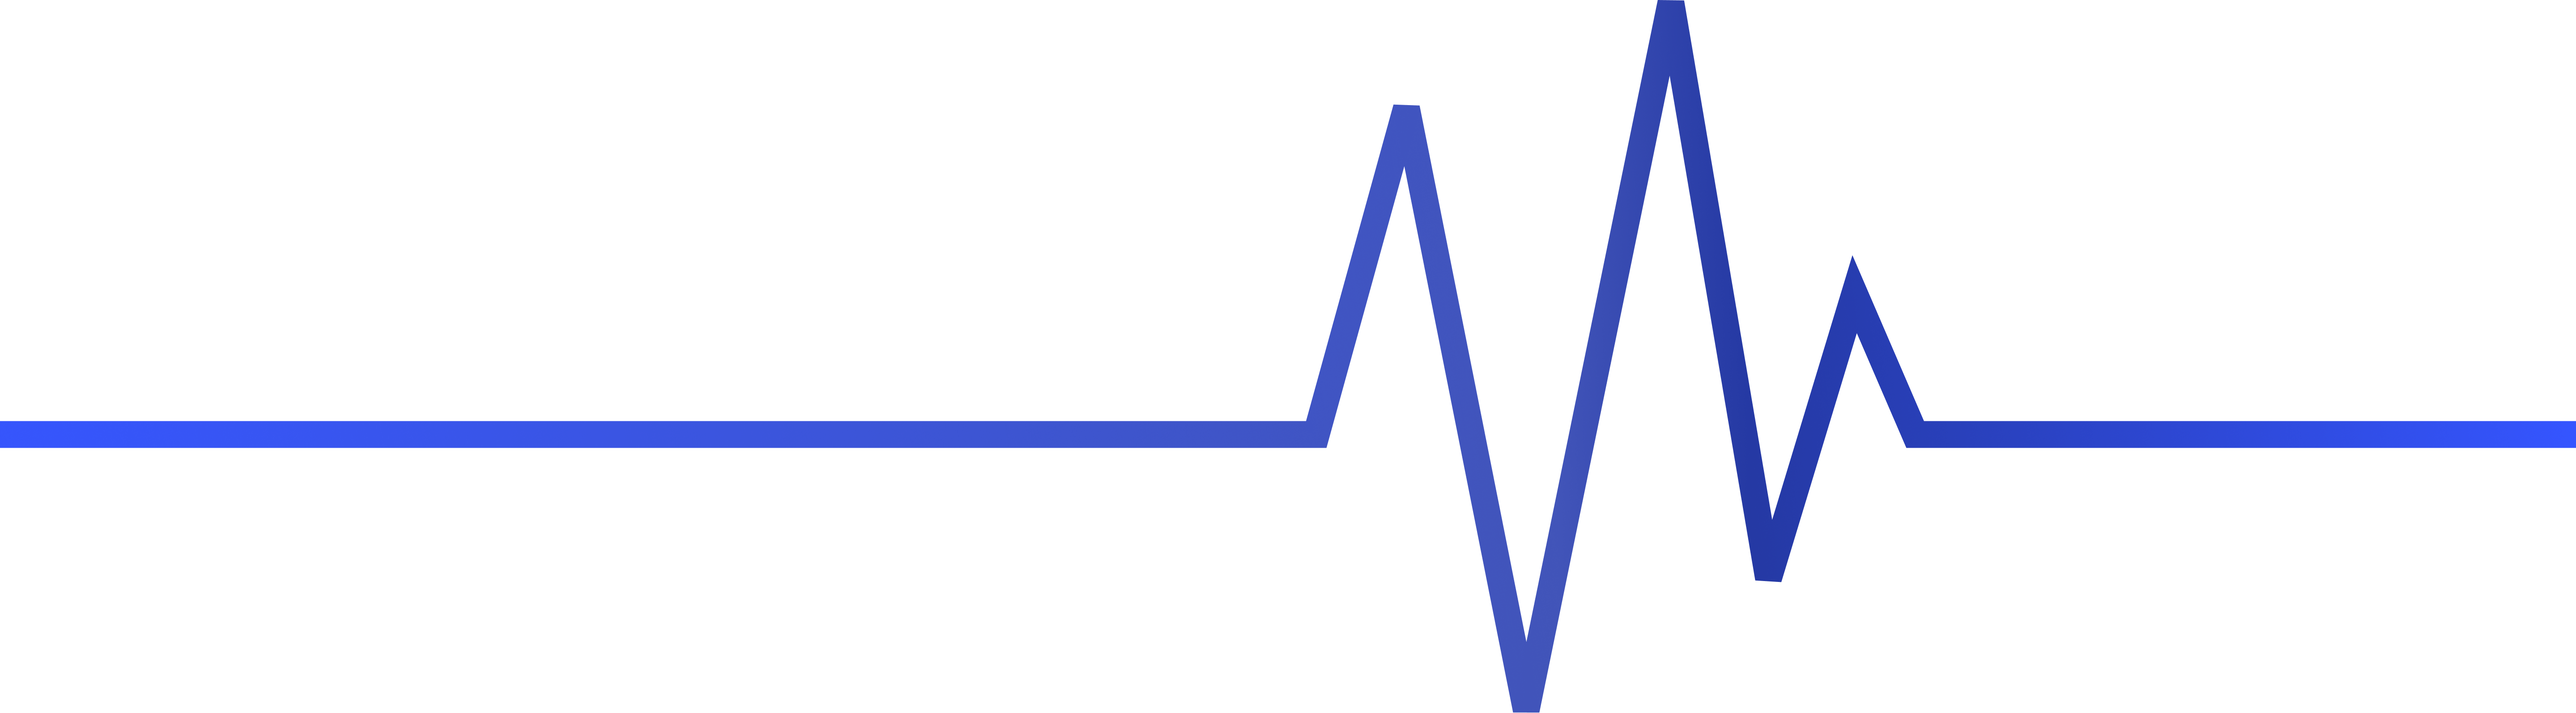
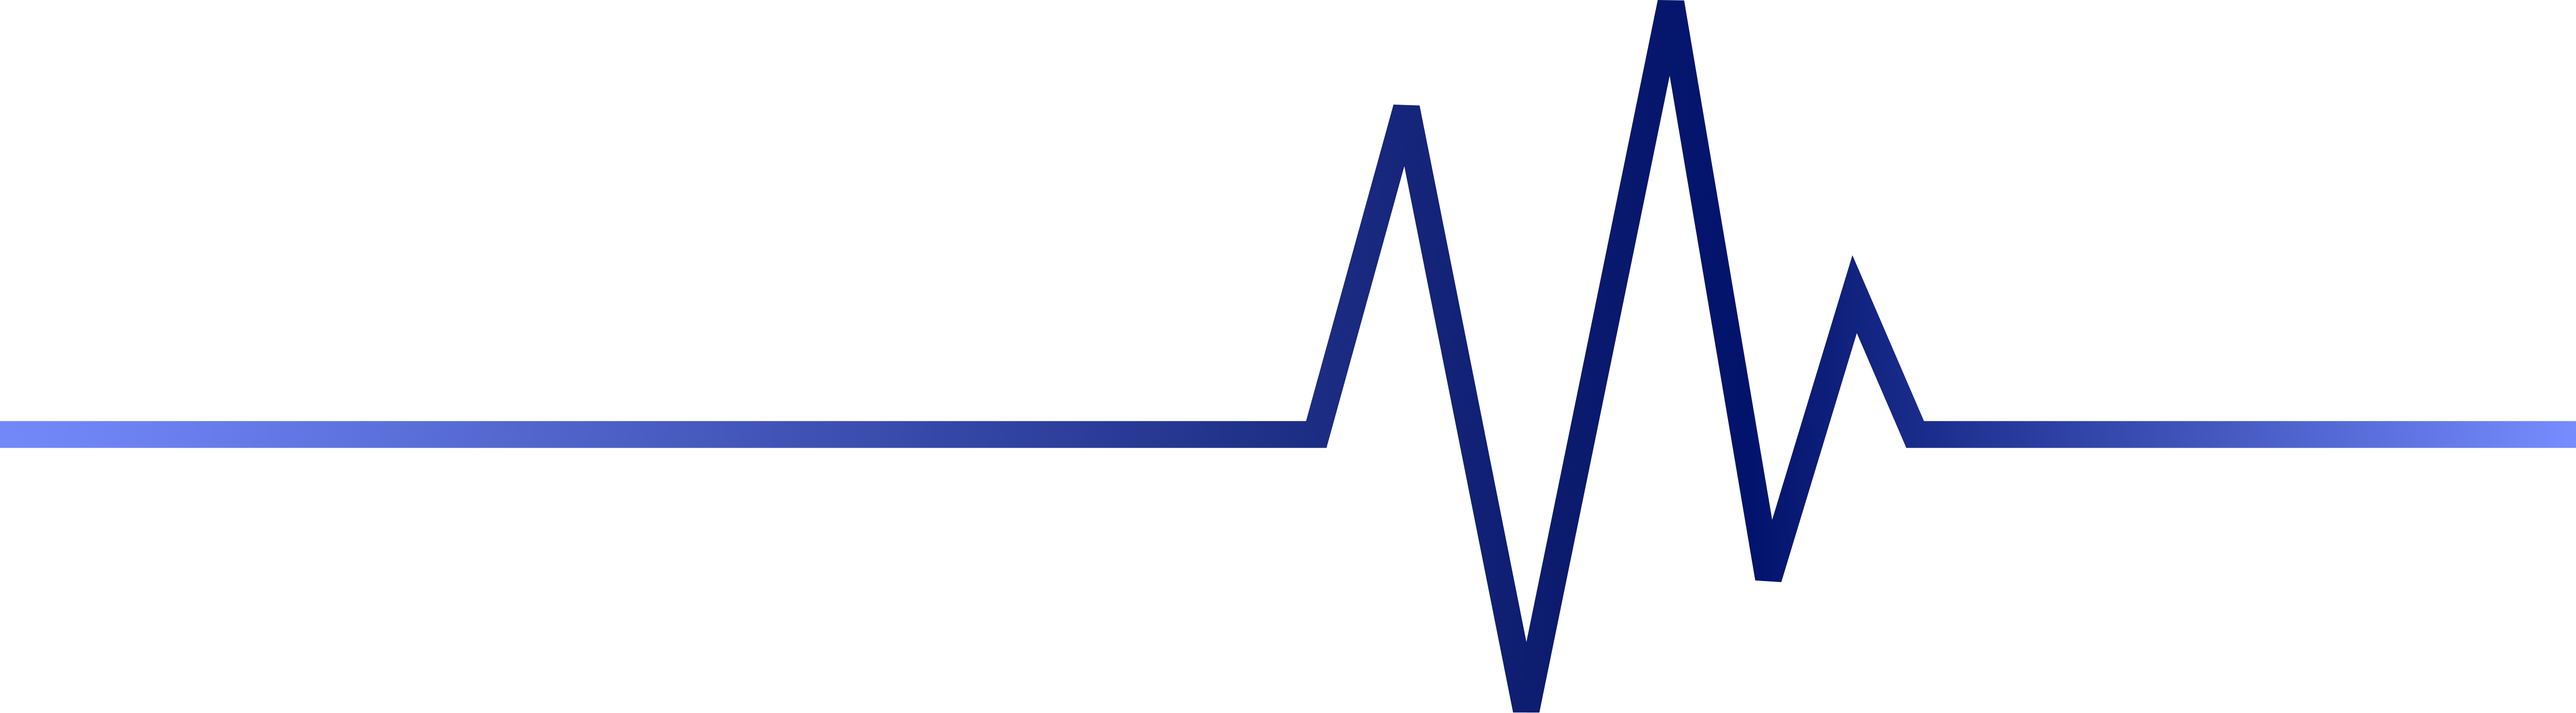
[FEAT] skill란에 곡선 애니메이션 추가

Changed region(s): [[0.0, 0.0, 1.0, 1.0]]

diff --git a/src/components/skill/elements/Curve.tsx b/src/components/skill/elements/Curve.tsx
@@ -1,0 +1,64 @@
+import { useRef, useState, MutableRefObject } from "react";
+import { useRecoilValue } from "recoil";
+import useScrollSvgStroke from "../../../hooks/useScrollSvgStroke";
+import { darkModeAtom } from "../../../libs/atoms";
+
+interface Props {
+  containerRef: MutableRefObject<HTMLDivElement | null>;
+}
+
+const Curve = ({ containerRef }: Props) => {
+  const pathRef = useRef<SVGPathElement | null>(null);
+  const [length, setLength] = useState<number>(0);
+  const isDark = useRecoilValue(darkModeAtom);
+
+  useScrollSvgStroke(containerRef, pathRef, length, setLength);
+
+  return (
+    <svg
+      width="1920"
+      height="844"
+      viewBox="0 0 1920 844"
+      fill="none"
+      xmlns="http://www.w3.org/2000/svg"
+    >
+      <path
+        ref={pathRef}
+        d="M1920.14 10C1086.82 52.4154 684.091 354.064 -5.36523 268.5C-5.36523 268.5 -212.239 233.476 -137.865 346C-63.492 458.524 -432.231 328.5 -5.36526 482.5C421.5 636.5 1310.2 389.243 1920.14 835.5"
+        stroke="url(#paint0_linear_14_46)"
+        strokeWidth="20"
+      />
+      <defs>
+        {isDark ? (
+          <linearGradient
+            id="paint0_linear_14_46"
+            x1="883.068"
+            y1="10"
+            x2="883.068"
+            y2="835.5"
+            gradientUnits="userSpaceOnUse"
+          >
+            <stop stop-color="#680CFF" />
+            <stop offset="0.473958" stop-color="#778DFF" />
+            <stop offset="1" stop-color="#778DFF" />
+          </linearGradient>
+        ) : (
+          <linearGradient
+            id="paint0_linear_14_46"
+            x1="883.068"
+            y1="10"
+            x2="883.068"
+            y2="835.5"
+            gradientUnits="userSpaceOnUse"
+          >
+            <stop stopColor="#70FFD4" />
+            <stop offset="0.473958" stopColor="#2EB7E1" />
+            <stop offset="1" stopColor="#93FEFE" />
+          </linearGradient>
+        )}
+      </defs>
+    </svg>
+  );
+};
+
+export default Curve;

diff --git a/src/hooks/useScrollSvgStroke.ts b/src/hooks/useScrollSvgStroke.ts
@@ -1,0 +1,42 @@
+import { useEffect, MutableRefObject, Dispatch } from "react";
+
+const useScrollSvgStroke = (
+  containerRef: MutableRefObject<HTMLDivElement | null>,
+  pathRef: MutableRefObject<SVGPathElement | null>,
+  length: number,
+  setLength: Dispatch<React.SetStateAction<number>>,
+) => {
+  const calcDashoffset = () => {
+    const scrolledHeight = window.scrollY + window.innerHeight * 0.8;
+    if (containerRef.current) {
+      const ratio =
+        (scrolledHeight - containerRef.current.offsetTop) /
+        containerRef.current.offsetHeight;
+      const value = length - length * ratio;
+      return value < 0 ? 0 : value > length ? length : value;
+    }
+  };
+
+  useEffect(() => {
+    if (pathRef.current) {
+      const pathLength = pathRef.current.getTotalLength();
+      setLength(pathLength);
+      pathRef.current.style.strokeDasharray = `${pathLength} ${pathLength}`;
+    }
+  }, []);
+
+  useEffect(() => {
+    const handleScroll = () => {
+      if (pathRef.current) {
+        pathRef.current.style.strokeDashoffset = `${calcDashoffset()}`;
+      }
+    };
+
+    window.addEventListener("scroll", handleScroll);
+    return () => {
+      window.removeEventListener("scroll", handleScroll);
+    };
+  }, [length]);
+};
+
+export default useScrollSvgStroke;

diff --git a/src/components/skill/index/Skill.tsx b/src/components/skill/index/Skill.tsx
@@ -1,12 +1,18 @@
+import { useRef } from "react";
 import CloudAndDeployment from "../elements/CloudAnd\u2028Deployment";
 import Collaboration from "../elements/Collaboration";
+import Curve from "../elements/Curve";
 import Data from "../elements/Data";
 import FrontEnd from "../elements/FrontEnd";
 import TestingLibraries from "../elements/TestingLibraries";
 
 function Skill() {
+  const containerRef = useRef<HTMLDivElement | null>(null);
   return (
-    <div className="relative flex flex-col items-center w-full h-screen font-inter">
+    <div
+      ref={containerRef}
+      className="relative flex flex-col items-center w-full h-screen font-inter"
+    >
       <h1 className="text-4xl font-semibold mb-16 z-10">Skills</h1>
       <div className="flex flex-col gap-12 z-10">
         <FrontEnd />
@@ -14,6 +20,9 @@ function Skill() {
         <CloudAndDeployment />
         <TestingLibraries />
         <Collaboration />
+      </div>
+      <div className="absolute inset-0 w-full overflow-hidden z-0">
+        <Curve containerRef={containerRef} />
       </div>
     </div>
   );
